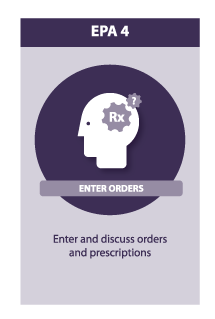
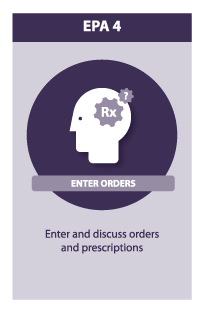
Realigned all the badges. Displayed the badges small when it is not awarded.  Recropped the badges.

diff --git a/app/helpers/epa_masters_helper.rb b/app/helpers/epa_masters_helper.rb
@@ -32,12 +32,12 @@ module EpaMastersHelper
       selected_recs = EpaMaster.where(user_id: selected_user_id).order(:id)
     end
     selected_recs.each do |rec|
+      badged = {rec.epa => "epa/#{rec.epa}.png"}
       if (rec.status1.to_s + rec.status2.to_s + rec.status3.to_s).include? "Yes"
-        badged = {rec.epa => "epa/#{rec.epa}.png"}
         review_date = get_review_date(rec)
       else
         review_date = {rec.epa => ""}
-        badged = {rec.epa => "epa/not_badge_#{rec.epa}.png"}
+        #badged = {rec.epa => "epa/not_badge_#{rec.epa}.png"}
       end
       review_date_array.push review_date
       epa_badges.push badged
